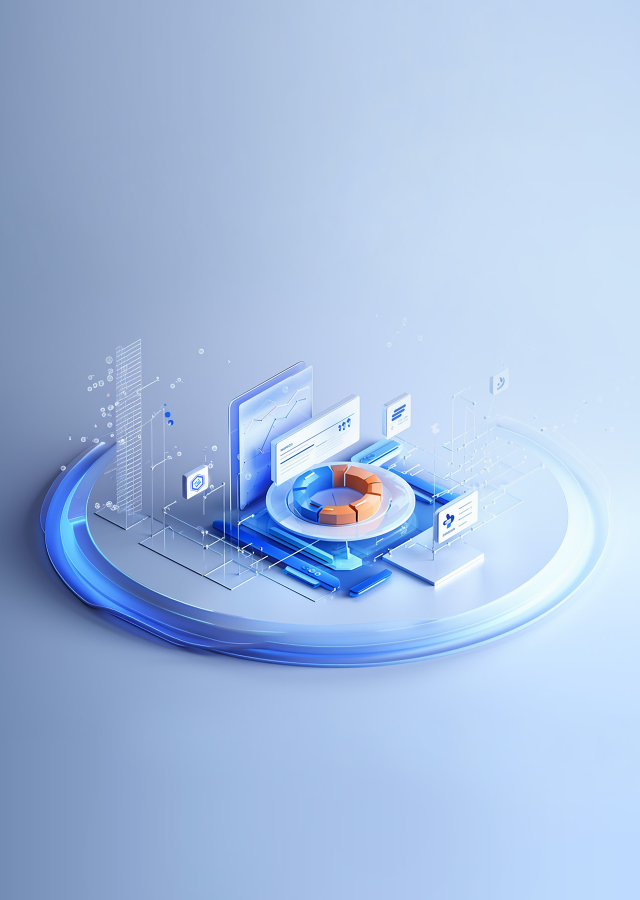
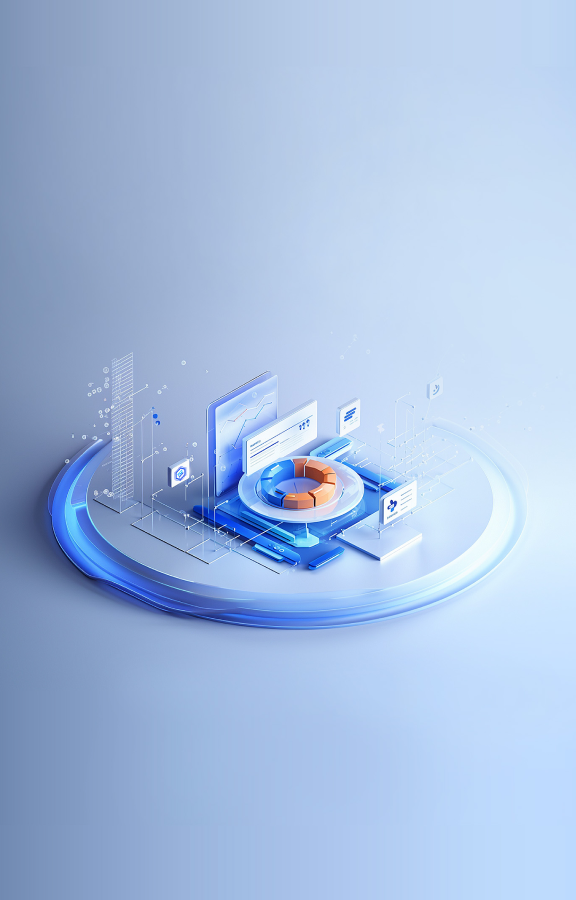
style: 登录页面样式

Changed region(s): [[0.0, 0.3733, 0.9375, 0.7467], [0.75, 0.4044, 0.7812, 0.4356]]

diff --git a/core/core-frontend/src/views/login/index.vue b/core/core-frontend/src/views/login/index.vue
@@ -137,7 +137,7 @@ onMounted(() => {
     })
   }
   const erd = elementResizeDetectorMaker()
-  erd.listenTo(loginContainer.value, element => {
+  erd.listenTo(loginContainer.value, () => {
     nextTick(() => {
       loginContainerWidth.value = loginContainer.value?.offsetWidth
     })
@@ -289,7 +289,7 @@ onMounted(() => {
   .login-image-content {
     overflow: hidden;
     height: 100%;
-    width: 45%;
+    width: 40%;
     min-width: 400px;
   }
 
